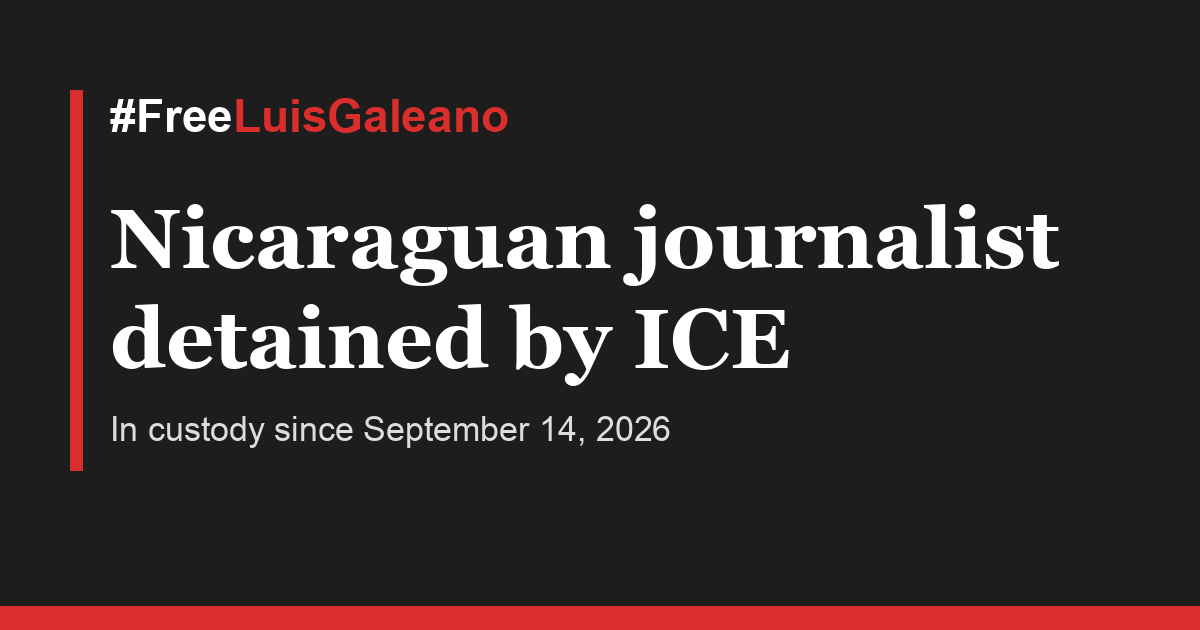
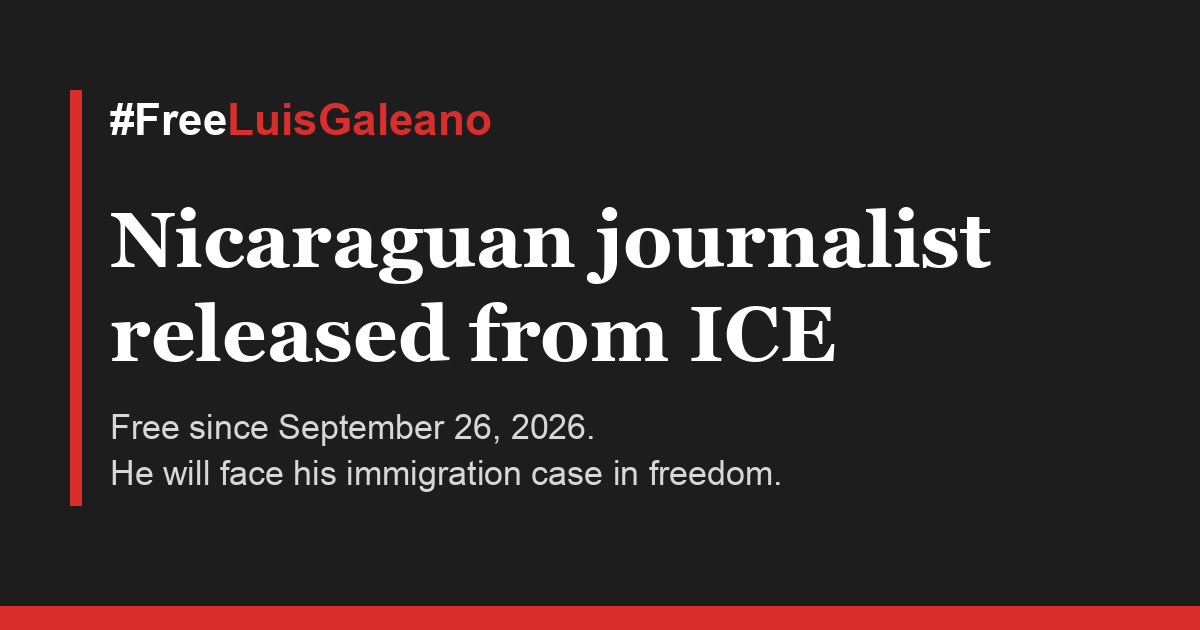
Actualiza las imágenes para compartir tras la liberación de Luis
Al compartir el sitio, la vista previa seguía diciendo «Bajo custodia
desde el 14 de septiembre». Las imágenes ahora dicen que está libre
desde el 26 de septiembre y que enfrentará su proceso migratorio en
libertad. Se agrega ?v=2 al og:image porque WhatsApp y Facebook guardan
la imagen en caché por URL, y el script que las genera queda en scripts/.

Changed region(s): [[0.0308, 0.4825, 0.7092, 0.8143], [0.0925, 0.3016, 0.8942, 0.4524], [0.0925, 0.1508, 0.4317, 0.2111]]

diff --git a/index.html b/index.html
@@ -14,7 +14,7 @@
 <meta property="og:title" content="#LibertadParaLuisGaleano">
 <meta property="og:description" content="Luis Galeano, periodista nicaragüense exiliado y perseguido por el régimen de Ortega, estuvo detenido por ICE del 14 al 26 de septiembre de 2026. Salió bajo fianza; su proceso migratorio sigue abierto.">
 <meta property="og:url" content="https://libertadparaluisgaleano.com/">
-<meta property="og:image" content="https://libertadparaluisgaleano.com/assets/img/compartir-es.png">
+<meta property="og:image" content="https://libertadparaluisgaleano.com/assets/img/compartir-es.png?v=2">
 <meta property="og:image:width" content="1200">
 <meta property="og:image:height" content="630">
 <meta property="og:locale" content="es_ES">

diff --git a/english/index.html b/english/index.html
@@ -14,7 +14,7 @@
 <meta property="og:title" content="#FreeLuisGaleano">
 <meta property="og:description" content="Luis Galeano, an exiled Nicaraguan journalist persecuted by the Ortega regime, was held by ICE from September 14 to 26, 2026. He was released on bond; his immigration case remains open.">
 <meta property="og:url" content="https://libertadparaluisgaleano.com/english/">
-<meta property="og:image" content="https://libertadparaluisgaleano.com/assets/img/compartir-en.png">
+<meta property="og:image" content="https://libertadparaluisgaleano.com/assets/img/compartir-en.png?v=2">
 <meta property="og:image:width" content="1200">
 <meta property="og:image:height" content="630">
 <meta property="og:locale" content="en_US">

diff --git a/english/why-this-matters/index.html b/english/why-this-matters/index.html
@@ -14,7 +14,7 @@
 <meta property="og:title" content="Why This Matters — #FreeLuisGaleano">
 <meta property="og:description" content="Why Luis Galeano’s detention matters: the danger of deportation to Nicaragua and the use of immigration enforcement against journalists.">
 <meta property="og:url" content="https://libertadparaluisgaleano.com/english/why-this-matters/">
-<meta property="og:image" content="https://libertadparaluisgaleano.com/assets/img/compartir-en.png">
+<meta property="og:image" content="https://libertadparaluisgaleano.com/assets/img/compartir-en.png?v=2">
 <meta property="og:image:width" content="1200">
 <meta property="og:image:height" content="630">
 <meta property="og:locale" content="en_US">

diff --git a/por-que-importa/index.html b/por-que-importa/index.html
@@ -14,7 +14,7 @@
 <meta property="og:title" content="Por qué importa — #LibertadParaLuisGaleano">
 <meta property="og:description" content="Por qué la detención de Luis Galeano importa: el riesgo de deportarlo a Nicaragua y el uso del control migratorio contra periodistas.">
 <meta property="og:url" content="https://libertadparaluisgaleano.com/por-que-importa/">
-<meta property="og:image" content="https://libertadparaluisgaleano.com/assets/img/compartir-es.png">
+<meta property="og:image" content="https://libertadparaluisgaleano.com/assets/img/compartir-es.png?v=2">
 <meta property="og:image:width" content="1200">
 <meta property="og:image:height" content="630">
 <meta property="og:locale" content="es_ES">

diff --git a/historia/index.html b/historia/index.html
@@ -14,7 +14,7 @@
 <meta property="og:title" content="La historia de Luis — #LibertadParaLuisGaleano">
 <meta property="og:description" content="Quién es Luis Galeano: periodista nicaragüense, director de Café con Voz, exiliado desde 2018 y detenido por ICE en septiembre de 2026.">
 <meta property="og:url" content="https://libertadparaluisgaleano.com/historia/">
-<meta property="og:image" content="https://libertadparaluisgaleano.com/assets/img/compartir-es.png">
+<meta property="og:image" content="https://libertadparaluisgaleano.com/assets/img/compartir-es.png?v=2">
 <meta property="og:image:width" content="1200">
 <meta property="og:image:height" content="630">
 <meta property="og:locale" content="es_ES">

diff --git a/english/story/index.html b/english/story/index.html
@@ -14,7 +14,7 @@
 <meta property="og:title" content="Luis’s Story — #FreeLuisGaleano">
 <meta property="og:description" content="Who is Luis Galeano: Nicaraguan journalist, director of Café con Voz, in exile since 2018 and detained by ICE in September 2026.">
 <meta property="og:url" content="https://libertadparaluisgaleano.com/english/story/">
-<meta property="og:image" content="https://libertadparaluisgaleano.com/assets/img/compartir-en.png">
+<meta property="og:image" content="https://libertadparaluisgaleano.com/assets/img/compartir-en.png?v=2">
 <meta property="og:image:width" content="1200">
 <meta property="og:image:height" content="630">
 <meta property="og:locale" content="en_US">

diff --git a/actua/index.html b/actua/index.html
@@ -14,7 +14,7 @@
 <meta property="og:title" content="Actúa — #LibertadParaLuisGaleano">
 <meta property="og:description" content="Cómo ayudar a Luis Galeano: mensajes listos para compartir, el llamado del CPJ y cómo contactar a tu representante.">
 <meta property="og:url" content="https://libertadparaluisgaleano.com/actua/">
-<meta property="og:image" content="https://libertadparaluisgaleano.com/assets/img/compartir-es.png">
+<meta property="og:image" content="https://libertadparaluisgaleano.com/assets/img/compartir-es.png?v=2">
 <meta property="og:image:width" content="1200">
 <meta property="og:image:height" content="630">
 <meta property="og:locale" content="es_ES">

diff --git a/english/take-action/index.html b/english/take-action/index.html
@@ -14,7 +14,7 @@
 <meta property="og:title" content="Take Action — #FreeLuisGaleano">
 <meta property="og:description" content="How to help Luis Galeano: ready-to-share messages, CPJ’s call and how to contact your representative.">
 <meta property="og:url" content="https://libertadparaluisgaleano.com/english/take-action/">
-<meta property="og:image" content="https://libertadparaluisgaleano.com/assets/img/compartir-en.png">
+<meta property="og:image" content="https://libertadparaluisgaleano.com/assets/img/compartir-en.png?v=2">
 <meta property="og:image:width" content="1200">
 <meta property="og:image:height" content="630">
 <meta property="og:locale" content="en_US">

diff --git a/cpj-y-aliados/index.html b/cpj-y-aliados/index.html
@@ -14,7 +14,7 @@
 <meta property="og:title" content="CPJ y aliados — #LibertadParaLuisGaleano">
 <meta property="og:description" content="Comunicados del CPJ, la SIP y otras organizaciones que piden la liberación de Luis Galeano.">
 <meta property="og:url" content="https://libertadparaluisgaleano.com/cpj-y-aliados/">
-<meta property="og:image" content="https://libertadparaluisgaleano.com/assets/img/compartir-es.png">
+<meta property="og:image" content="https://libertadparaluisgaleano.com/assets/img/compartir-es.png?v=2">
 <meta property="og:image:width" content="1200">
 <meta property="og:image:height" content="630">
 <meta property="og:locale" content="es_ES">

diff --git a/english/cpj-and-partners/index.html b/english/cpj-and-partners/index.html
@@ -14,7 +14,7 @@
 <meta property="og:title" content="CPJ & Partners — #FreeLuisGaleano">
 <meta property="og:description" content="Statements from CPJ, IAPA and other organizations calling for Luis Galeano’s release.">
 <meta property="og:url" content="https://libertadparaluisgaleano.com/english/cpj-and-partners/">
-<meta property="og:image" content="https://libertadparaluisgaleano.com/assets/img/compartir-en.png">
+<meta property="og:image" content="https://libertadparaluisgaleano.com/assets/img/compartir-en.png?v=2">
 <meta property="og:image:width" content="1200">
 <meta property="og:image:height" content="630">
 <meta property="og:locale" content="en_US">

diff --git a/noticias/index.html b/noticias/index.html
@@ -14,7 +14,7 @@
 <meta property="og:title" content="En las noticias — #LibertadParaLuisGaleano">
 <meta property="og:description" content="Cobertura de prensa sobre la detención del periodista nicaragüense Luis Galeano por ICE.">
 <meta property="og:url" content="https://libertadparaluisgaleano.com/noticias/">
-<meta property="og:image" content="https://libertadparaluisgaleano.com/assets/img/compartir-es.png">
+<meta property="og:image" content="https://libertadparaluisgaleano.com/assets/img/compartir-es.png?v=2">
 <meta property="og:image:width" content="1200">
 <meta property="og:image:height" content="630">
 <meta property="og:locale" content="es_ES">

diff --git a/english/in-the-news/index.html b/english/in-the-news/index.html
@@ -14,7 +14,7 @@
 <meta property="og:title" content="In the News — #FreeLuisGaleano">
 <meta property="og:description" content="Press coverage of ICE’s detention of Nicaraguan journalist Luis Galeano.">
 <meta property="og:url" content="https://libertadparaluisgaleano.com/english/in-the-news/">
-<meta property="og:image" content="https://libertadparaluisgaleano.com/assets/img/compartir-en.png">
+<meta property="og:image" content="https://libertadparaluisgaleano.com/assets/img/compartir-en.png?v=2">
 <meta property="og:image:width" content="1200">
 <meta property="og:image:height" content="630">
 <meta property="og:locale" content="en_US">
